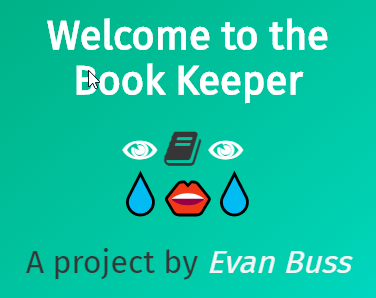
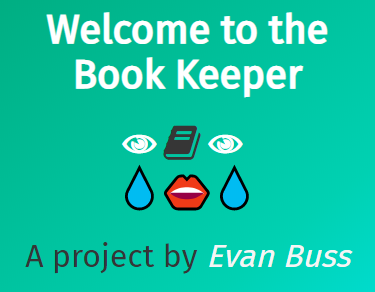
more style updates
Added card views of projects and some effects

diff --git a/index.html b/index.html
@@ -6,33 +6,32 @@
   <meta http-equiv="X-UA-Compatible" content="IE=edge">
   <title>Evan Buss</title>
   <meta name="viewport" content="width=device-width, initial-scale=1">
-  <!-- <link rel="stylesheet" type="text/css" media="screen" href="css/style.css" /> -->
   <link href="https://cdn.jsdelivr.net/npm/tailwindcss/dist/tailwind.min.css" rel="stylesheet">
   <link rel="stylesheet" href="https://use.fontawesome.com/releases/v5.1.0/css/all.css"
     integrity="sha384-lKuwvrZot6UHsBSfcMvOkWwlCMgc0TaWr+30HWe3a4ltaBwTZhyTEggF5tJv8tbt"
     crossorigin="anonymous">
-
+  <link href="https://fonts.googleapis.com/css?family=IBM+Plex+Sans" rel="stylesheet">
 </head>
 
-<body class="flex flex-col bg-grey-darkest text-center font-sans text-black min-h-screen justify-center ">
+<body class="flex flex-col bg-grey-darkest text-center text-black min-h-screen justify-center bg-gradient bg-center">
 
   <!-- Main Card -->
-  <div class="md:max-w-lg lg:max-w-2xl bg-grey-light content-center p-10 mx-auto rounded shadow-lg my-10">
+  <div class="bg-pattern max-w-xl content-center p-10 mx-auto md:rounded shadow-lg md:my-10 border border-black border-solid">
     <h1 class="underline mb-12 text-5xl">Evan Buss</h1>
 
     <!-- Info Section Container -->
-    <div class="text-md text-teal">
-      <!-- <h2 class="mb-5">Software Developer.</h2>
-      <h2>Specializing in web and app development.</h2> -->
+    <div class="text-md text-teal-light">
       <h2 id="one" class="mb-5">Software Developer</h2>
       <h2 id="two"></h2>
     </div>
 
     <h2 class="underline italic pt-10 pb-5 text-3xl">Projects</h2>
 
-    <!-- Project Card Container -->
-    <div class="flex flex-col lg:flex-row justify-center text-left">
-      <a class="no-underline text-black bg-white mx-2 my-4 max-w-xl lg:max-w-xs rounded overflow-hidden shadow-md"
+    <!-- Project Cards Container -->
+    <div class="flex flex-col md:flex-row lg:flex-row justify-center text-left">
+
+      <!-- Book Keeper Card -->
+      <a class="project no-underline text-black bg-white mx-2 my-4 max-w-xl md:max-w-xs rounded overflow-hidden shadow-md"
         href="https://books.evanbuss.com/">
         <div class="">
           <img class="w-full" src="./img/book-keeper.png" alt="">
@@ -44,13 +43,19 @@
           </div>
         </div>
       </a>
-      <a class="no-underline text-black mx-2 my-4 max-w-xs rounded overflow-hidden shadow-md"
+
+      <!-- Grocery list Card -->
+      <a class="project no-underline text-black mx-2 my-4 max-w-xl md:max-w-xs rounded overflow-hidden shadow-md bg-opaque"
         href="#">
         <div class="">
           <img class="" src="#" alt="">
           <div class="px-6 py-4">
-            <div class="font-bold text-xl mb-2">Grocery List</div>
-            <p class="text-grey-darker text-base">Currently in development. Collaborative shopping list to keep track of
+            <div class="font-bold text-xl mb-2">
+              <i class="fas fa-exclamation-triangle"></i>
+              Grocery List
+              <i class="fas fa-exclamation-triangle"></i>
+            </div>
+            <p class="text-grey-darker text-base">Currently in development. Collaborative shopping list for families to keep track of
               weekly purchases.
             </p>
           </div>
@@ -61,13 +66,17 @@
     <!-- Links Container -->
     <div>
       <h2 class="underline italic py-10 text-3xl">Links</h2>
-      <a class="no-underline text-black bg-white p-2 mx-2 rounded-lg hover:text-white
+
+      <!-- GitHub Link -->
+      <a class="inline-block no-underline text-black bg-white p-2 mx-2 rounded-lg hover:text-white
         hover:bg-black" href="https://github.com/evan-buss" alt="GitHub">
-        <i class="text-xl fab fa-github"></i>
+        <i class="text-2xl fab fa-github-alt"></i>
       </a>
-      <a class="no-underline text-black bg-white p-2 mx-2 rounded-lg hover:text-white
-              hover:bg-black" href="#" alt="Twitter">
-        <i class="text-xl fab fa-twitter"></i>
+
+      <!-- Twitter Link -->
+      <a class="inline-block no-underline text-black bg-white p-2 mx-2 rounded-lg hover:text-white
+              hover:bg-black" href="https://twitter.com/evan_buss5" alt="Twitter">
+        <i class="text-2xl fab fa-twitter"></i>
       </a>
     </div>
   </div>
@@ -84,9 +93,33 @@
         setTimeout(typeWriter, speed);
       }
     }
-
     window.addEventListener("load", typeWriter);
   </script>
+
+  <style>
+    * {
+      font-family: 'IBM Plex Sans', sans-serif;
+    }
+
+    .bg-pattern {
+      background-image: url("./img/bg-pattern.png");
+      background-repeat: repeat-xy;
+    }
+
+    .bg-gradient {
+      background: linear-gradient(141deg, #0fb8ad 0%, #1fc8db 51%, #2cb5e8 75%);
+    }
+
+    .bg-opaque {
+      background: rgba(0, 0, 0, .2)
+    }
+    .project:hover {
+      position: relative;
+      top: -5px;
+    }
+
+
+  </style>
 </body>
 
 </html>
